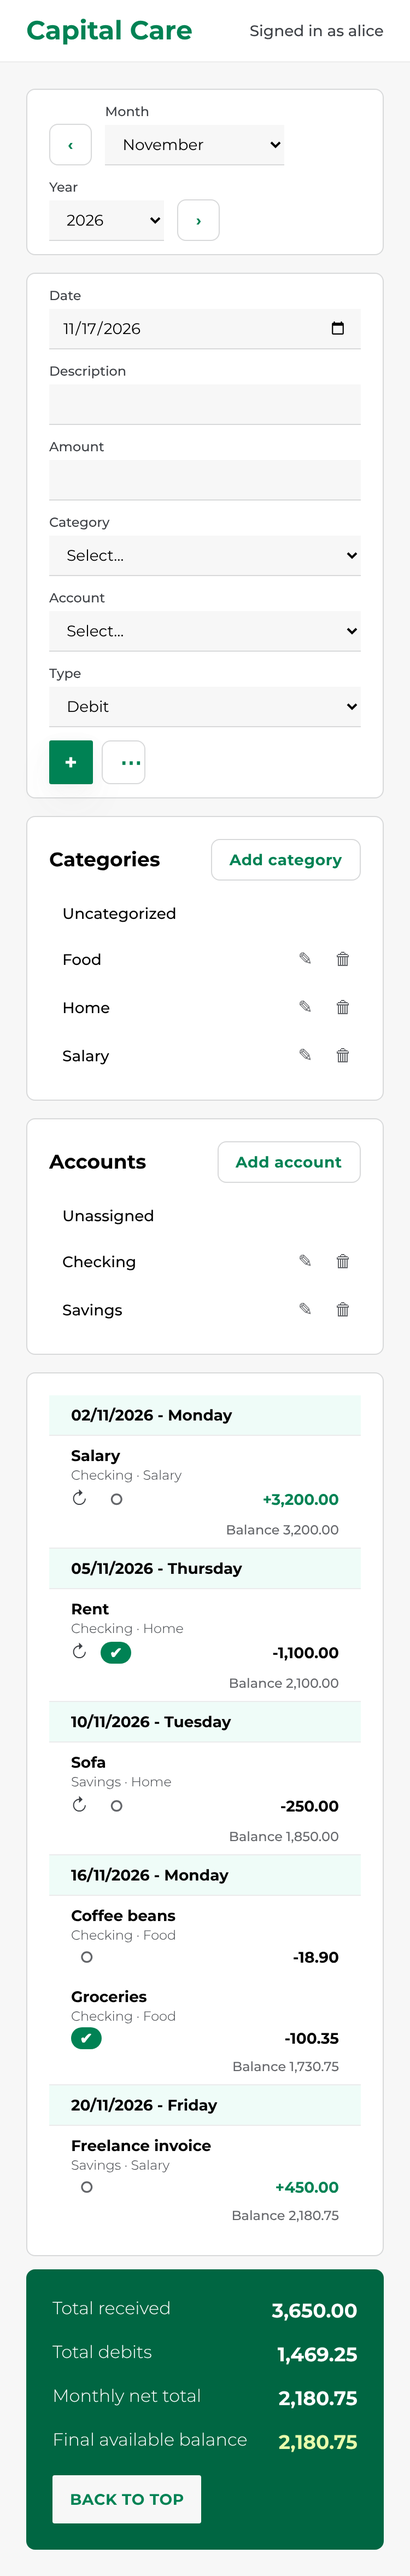
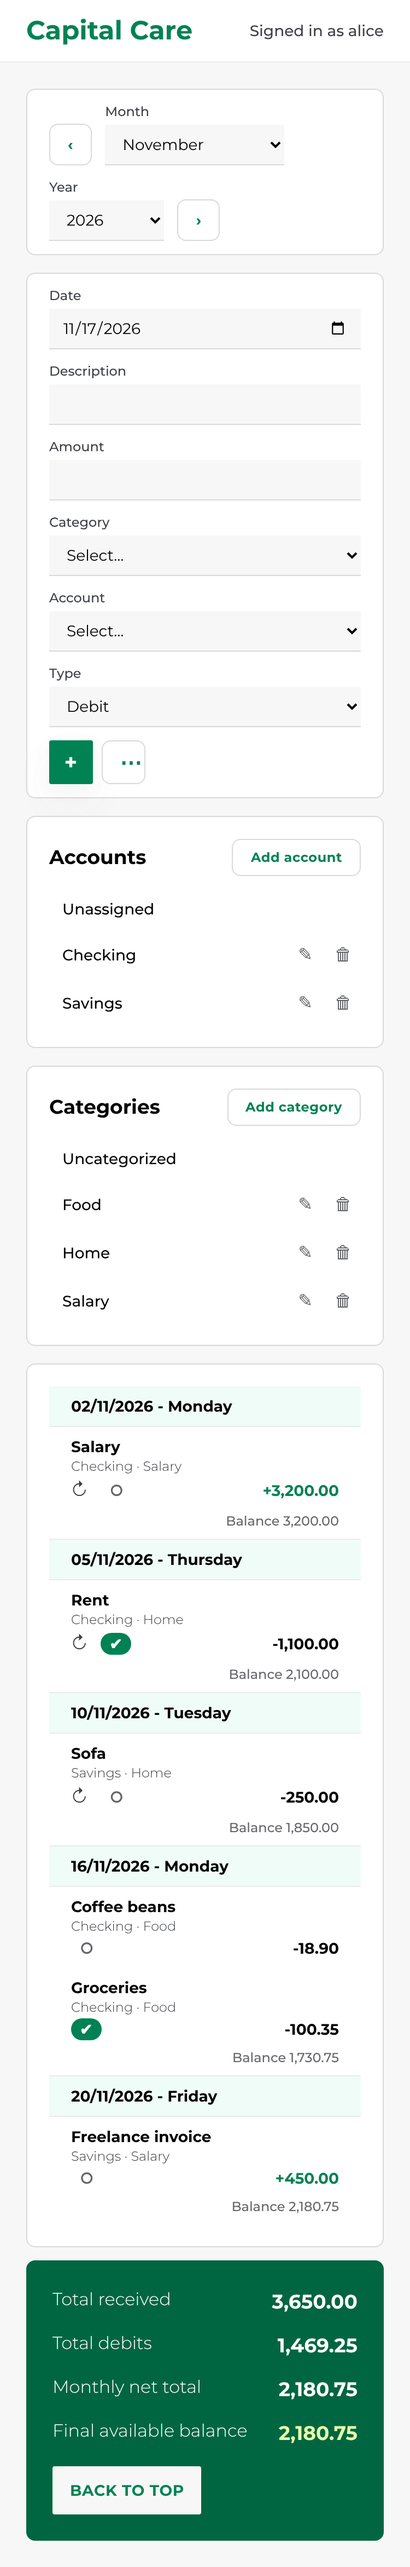
feat(web): show accounts above categories
Put the accounts panel first on the left and tighten the panel buttons so
both headers fit on one line. Retake the screenshots.

Claude-Session: https://claude.ai/code/session_01Avgrpna3ERzUyuLN8kzgAc

diff --git a/apps/web/src/routes/TransactionsPage.tsx b/apps/web/src/routes/TransactionsPage.tsx
@@ -164,25 +164,6 @@ export function TransactionsPage() {
         <div className="grid gap-4 lg:grid-cols-[280px_1fr]">
           <aside className="space-y-4">
             <FilterPanel
-              title="Categories"
-              noun="category"
-              noneLabel="Uncategorized"
-              withDescription
-              items={categories.data ?? []}
-              selected={categoryFilter}
-              onToggle={(id) => setCategoryFilter(toggled(categoryFilter, id))}
-              onSave={saveCategory}
-              onDelete={async (id) => {
-                await api.deleteCategory(id);
-                setCategoryFilter((s) => {
-                  const next = new Set(s);
-                  next.delete(id);
-                  return next;
-                });
-                await queryClient.invalidateQueries({ queryKey: ['categories'] });
-              }}
-            />
-            <FilterPanel
               title="Accounts"
               noun="account"
               noneLabel="Unassigned"
@@ -199,6 +180,25 @@ export function TransactionsPage() {
                   return next;
                 });
                 await queryClient.invalidateQueries({ queryKey: ['accounts'] });
+              }}
+            />
+            <FilterPanel
+              title="Categories"
+              noun="category"
+              noneLabel="Uncategorized"
+              withDescription
+              items={categories.data ?? []}
+              selected={categoryFilter}
+              onToggle={(id) => setCategoryFilter(toggled(categoryFilter, id))}
+              onSave={saveCategory}
+              onDelete={async (id) => {
+                await api.deleteCategory(id);
+                setCategoryFilter((s) => {
+                  const next = new Set(s);
+                  next.delete(id);
+                  return next;
+                });
+                await queryClient.invalidateQueries({ queryKey: ['categories'] });
               }}
             />
           </aside>

diff --git a/apps/web/src/features/ledger/FilterPanel.tsx b/apps/web/src/features/ledger/FilterPanel.tsx
@@ -48,7 +48,7 @@ export function FilterPanel(props: Props) {
           <h2 className="text-lg font-bold">{title}</h2>
           <Button
             variant="outline"
-            className="whitespace-nowrap"
+            className="whitespace-nowrap !px-3 text-xs"
             onClick={() => setDialogue({ kind: 'add' })}
           >
             Add {noun}
